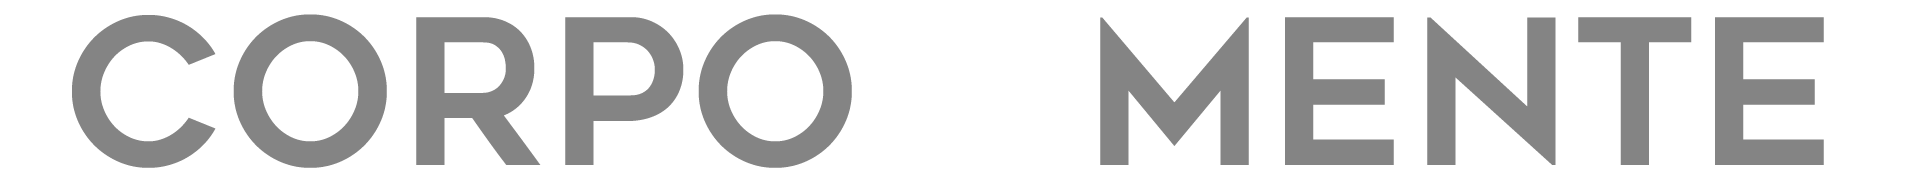
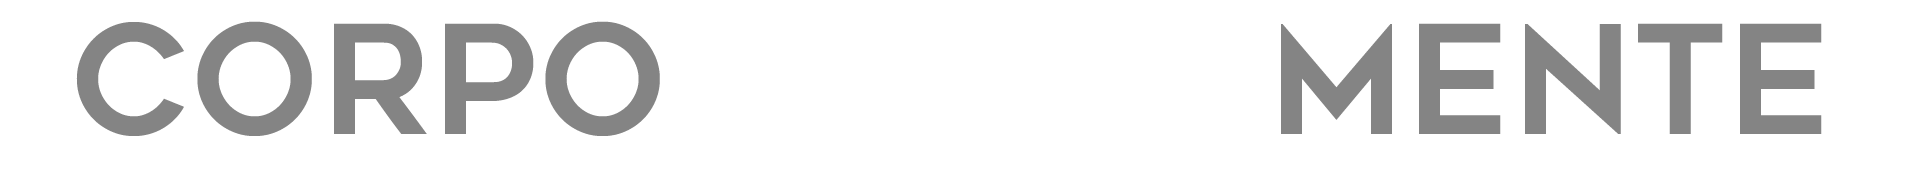
ajuste footer

diff --git a/style.css b/style.css
@@ -8,10 +8,6 @@
     scroll-behavior: smooth;
 }
 
-body {
-    overflow-x: hidden;
-}
-
 header {
     z-index: 1;
     display: flex;
@@ -47,7 +43,7 @@ main {
     height: 100vh;
 
     img {
-        width: 100vw;
+        width: 100%;
     }
 }
 
@@ -55,28 +51,29 @@ main {
     margin-top: 900px;
 
     img {
-        width: 100vw;
+        width: 100%;
     }
 }
 
 footer {
 
     .text-cp {
-        width: 100vw;
+        width: 100%;
         display: flex;
         align-items: center;
         justify-content: center;
         margin-bottom: -250px;
-        margin-top: 50px;
+        margin-top: 45px;
 
         .corpoemente {
-            width: 90vw;
+            width: 90%;
+            margin-top: -25px;
         }
 
     }
 
     .bg-footer {
-        width: 100vw;
+        width: 100%;
     }
 }
 
